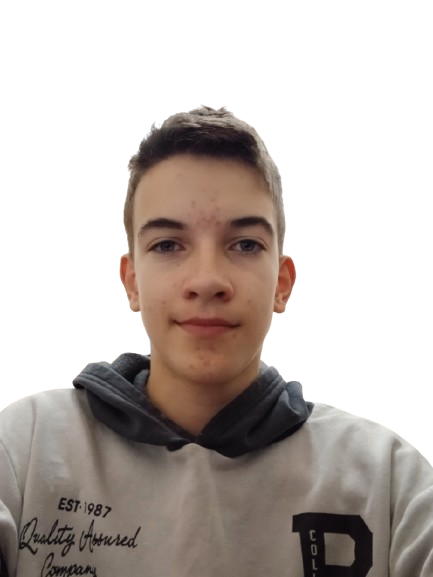
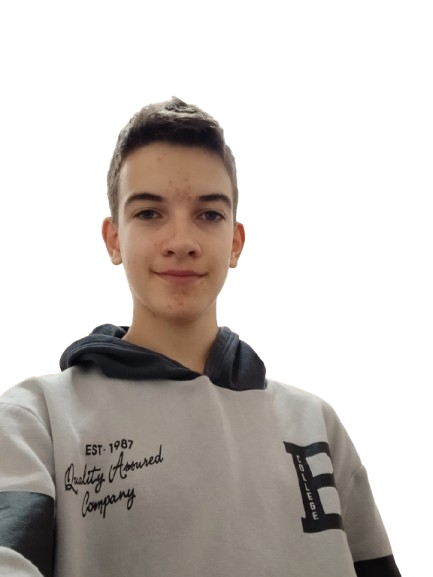
edit

diff --git a/index.html b/index.html
@@ -1,7 +1,8 @@
 <style>
   body { margin: 0; background: #111; color: #fff; font-family: sans-serif; overflow: hidden; user-select: none; }
   #game { position: relative; width: 100vw; height: 100vh; background-size: cover; background-position: center; display: flex; flex-direction: column; justify-content: flex-end; }
-  #sprite { position: absolute; bottom: 0; left: 50%; transform: translateX(-50%); max-height: 85vh; pointer-events: none; }
+  #sprite { position: absolute; bottom: 0; left: 32%; transform: translateX(-50%); max-height: 85vh; pointer-events: none; }
+  #popup-pic { position: absolute; top: 18%; right: 12%; max-width: 320px; max-height: 260px; border: 3px solid #fff; border-radius: 10px; box-shadow: 0 8px 25px rgba(0,0,0,0.7); display: none; z-index: 4; }
   #choices { position: absolute; top: 30%; left: 50%; transform: translate(-50%, -30%); display: flex; flex-direction: column; gap: 10px; z-index: 10; }
   .choice-btn { background: rgba(20, 20, 30, 0.9); color: #fff; border: 2px solid #555; padding: 12px 24px; font-size: 18px; cursor: pointer; border-radius: 6px; }
   .choice-btn:hover { background: #334; border-color: #88f; }
@@ -12,6 +13,7 @@
 
 <div id="game">
   <img id="sprite" src="" style="display:none;">
+  <img id="popup-pic" src="">
   <div id="choices"></div>
   <div id="box">
     <div id="name"></div>
@@ -51,8 +53,16 @@ function next() {
     sp.src = `images/${line.slice(5).trim()}`;
     sp.style.display = 'block';
     next();
+  } else if (line.startsWith('hidepic')) {
+    document.getElementById('popup-pic').style.display = 'none';
+    next();
   } else if (line.startsWith('hide')) {
     document.getElementById('sprite').style.display = 'none';
+    next();
+  } else if (line.startsWith('pic ')) {
+    let pic = document.getElementById('popup-pic');
+    pic.src = `images/${line.slice(4).trim()}`;
+    pic.style.display = 'block';
     next();
   } else if (line.startsWith('jump ')) {
     let target = line.slice(5).trim();
